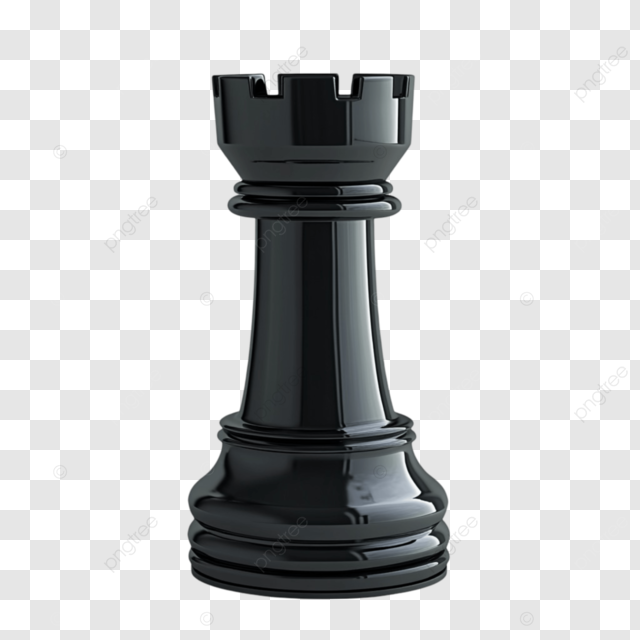
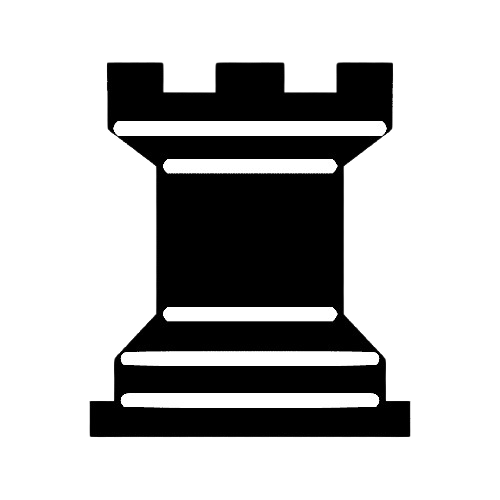
added rook functionality

diff --git a/upenn/src/components/ui/background-boxes.tsx b/upenn/src/components/ui/background-boxes.tsx
@@ -73,27 +73,77 @@ export const BoxesCore = ({ className, ...rest }: { className?: string }) => {
       color: getRandomColor(),
     }))
   );
+  const [rooks, setRooks] = useState(
+    Array.from({ length: 2 }, () => ({
+      row: 0,
+      col: 0,
+      color: getRandomColor(),
+    }))
+  );
+
+  // Helper function to generate unique positions
+  const generateUniquePositions = (
+    numPositions: number,
+    rows: number,
+    cols: number
+  ): [number, number][] => {
+    const positions = new Set<string>();
+    const uniquePositions: [number, number][] = [];
+
+    while (uniquePositions.length < numPositions) {
+      const row = Math.floor(Math.random() * rows);
+      const col = Math.floor(Math.random() * cols);
+      const key = `${row},${col}`;
+      if (!positions.has(key)) {
+        positions.add(key);
+        uniquePositions.push([row, col]);
+      }
+
+      // Prevent infinite loop if grid is too small
+      if (uniquePositions.length + positions.size > rows * cols) {
+        break;
+      }
+    }
+
+    return uniquePositions;
+  };
 
   useEffect(() => {
     if (rows.length > 0 && cols.length > 0 && !isInitialized.current) {
-      const centerPosition = {
-        row: Math.floor(rows.length / 2),
-        col: Math.floor(cols.length / 2),
-      };
+      const totalPieces = knights.length + bishops.length + rooks.length;
+      const uniquePositions = generateUniquePositions(totalPieces, rows.length, cols.length);
+
+      if (uniquePositions.length < totalPieces) {
+        console.warn("Not enough unique positions available for all pieces.");
+      }
+
+      const [knightPositions, bishopPositions, rookPositions] = [
+        uniquePositions.slice(0, knights.length),
+        uniquePositions.slice(knights.length, knights.length + bishops.length),
+        uniquePositions.slice(knights.length + bishops.length, totalPieces),
+      ];
 
       setKnights(
-        knights.map(() => ({
-          row: centerPosition.row,
-          col: centerPosition.col,
-          color: getRandomColor(),
+        knights.map((knight, index) => ({
+          ...knight,
+          row: knightPositions[index][0],
+          col: knightPositions[index][1],
         }))
       );
 
       setBishops(
-        bishops.map(() => ({
-          row: centerPosition.row,
-          col: centerPosition.col,
-          color: getRandomColor(),
+        bishops.map((bishop, index) => ({
+          ...bishop,
+          row: bishopPositions[index][0],
+          col: bishopPositions[index][1],
+        }))
+      );
+
+      setRooks(
+        rooks.map((rook, index) => ({
+          ...rook,
+          row: rookPositions[index][0],
+          col: rookPositions[index][1],
         }))
       );
 
@@ -101,7 +151,6 @@ export const BoxesCore = ({ className, ...rest }: { className?: string }) => {
     }
   }, [rows.length, cols.length]);
 
-  // Move functions
   const getRandomKnightMove = (row: number, col: number): [number, number] | null => {
     const knightMoves: [number, number][] = [
       [-2, -1], [-1, -2], [1, -2], [2, -1],
@@ -118,28 +167,61 @@ export const BoxesCore = ({ className, ...rest }: { className?: string }) => {
   };
 
   const getRandomBishopMove = (row: number, col: number): [number, number] | null => {
-    const bishopMoves: [number, number][] = [
+    const bishopDirections: [number, number][] = [
       [-1, -1], [-1, 1], [1, -1], [1, 1],
     ];
 
-    const validMoves = bishopMoves.filter(([dr, dc]) => {
-      const newRow = row + dr;
-      const newCol = col + dc;
-      return newRow >= 0 && newRow < rows.length && newCol >= 0 && newCol < cols.length;
-    });
+    // Shuffle the directions
+    const shuffledDirections = [...bishopDirections].sort(() => 0.5 - Math.random());
 
-    return validMoves.length > 0 ? validMoves[Math.floor(Math.random() * validMoves.length)] : null;
+    for (let direction of shuffledDirections) {
+      const stepSize = Math.floor(Math.random() * 5) + 1; // Step size between 1 and 5
+      const newRow = row + direction[0] * stepSize;
+      const newCol = col + direction[1] * stepSize;
+
+      if (newRow >= 0 && newRow < rows.length && newCol >= 0 && newCol < cols.length) {
+        return [direction[0] * stepSize, direction[1] * stepSize];
+      }
+    }
+
+    return null;
+  };
+
+  const getRandomRookMove = (row: number, col: number): [number, number] | null => {
+    const rookDirections: [number, number][] = [
+      [-1, 0], [1, 0], [0, -1], [0, 1],
+    ];
+
+    // Shuffle the directions
+    const shuffledDirections = [...rookDirections].sort(() => 0.5 - Math.random());
+
+    for (let direction of shuffledDirections) {
+      const stepSize = Math.floor(Math.random() * 5) + 1; // Step size between 1 and 5
+      const newRow = row + direction[0] * stepSize;
+      const newCol = col + direction[1] * stepSize;
+
+      if (newRow >= 0 && newRow < rows.length && newCol >= 0 && newCol < cols.length) {
+        return [direction[0] * stepSize, direction[1] * stepSize];
+      }
+    }
+
+    return null;
   };
 
   const updateBlockColor = (newRow: number, newCol: number) => {
     setBlockColors((prevBlockColors) => {
-      if (newRow < 0 || newRow >= prevBlockColors.length || newCol < 0 || newCol >= prevBlockColors[0].length) {
+      if (
+        newRow < 0 ||
+        newRow >= prevBlockColors.length ||
+        newCol < 0 ||
+        newCol >= prevBlockColors[0].length
+      ) {
         console.warn(`Attempted to update invalid cell: (${newRow}, ${newCol})`);
         return prevBlockColors;
       }
 
-      const updatedColors = prevBlockColors.map((row, rowIndex) =>
-        rowIndex === newRow ? [...row] : row // Ensure only the specific row is copied
+      const updatedColors = prevBlockColors.map((rowData, rowIndex) =>
+        rowIndex === newRow ? [...rowData] : rowData 
       );
       updatedColors[newRow][newCol] = `var(${getRandomColor()})`; // Update only the specific square
       return updatedColors;
@@ -196,7 +278,29 @@ export const BoxesCore = ({ className, ...rest }: { className?: string }) => {
           return bishop;
         });
       });
-    }, 1000);
+
+      // Update rook positions and colors
+      setRooks((prevRooks) => {
+        return prevRooks.map((rook) => {
+          const move = getRandomRookMove(rook.row, rook.col);
+          if (move) {
+            const [rowOffset, colOffset] = move;
+            const newRow = rook.row + rowOffset;
+            const newCol = rook.col + colOffset;
+
+            // Update block color
+            updateBlockColor(newRow, newCol);
+
+            return {
+              row: newRow,
+              col: newCol,
+              color: getRandomColor(),
+            };
+          }
+          return rook;
+        });
+      });
+    }, 1000); 
 
     return () => clearInterval(interval);
   }, [rows.length, cols.length]);
@@ -223,10 +327,12 @@ export const BoxesCore = ({ className, ...rest }: { className?: string }) => {
               whileHover={{ backgroundColor: `var(${getRandomColor()})`, transition: { duration: 0 } }}
               className={cn(
                 "border border-slate-700 relative",
-                (knights.some((knight) => knight.row === i && knight.col === j) || 
-                bishops.some((bishop) => bishop.row === i && bishop.col === j))
+                (knights.some((knight) => knight.row === i && knight.col === j) ||
+                 bishops.some((bishop) => bishop.row === i && bishop.col === j) ||
+                 rooks.some((rook) => rook.row === i && rook.col === j))
                   ? knights.find((knight) => knight.row === i && knight.col === j)?.color ||
-                    bishops.find((bishop) => bishop.row === i && bishop.col === j)?.color
+                    bishops.find((bishop) => bishop.row === i && bishop.col === j)?.color ||
+                    rooks.find((rook) => rook.row === i && rook.col === j)?.color
                   : ""
               )}
             >
@@ -242,6 +348,14 @@ export const BoxesCore = ({ className, ...rest }: { className?: string }) => {
                 <img
                   src="/chess/bishop.png"
                   alt="Bishop"
+                  style={{ width: "100%", height: "100%" }}
+                  className="absolute h-full w-full object-contain pointer-events-none"
+                />
+              )}
+              {rooks.some((rook) => rook.row === i && rook.col === j) && (
+                <img
+                  src="/chess/rook.png"
+                  alt="Rook"
                   style={{ width: "100%", height: "100%" }}
                   className="absolute h-full w-full object-contain pointer-events-none"
                 />
